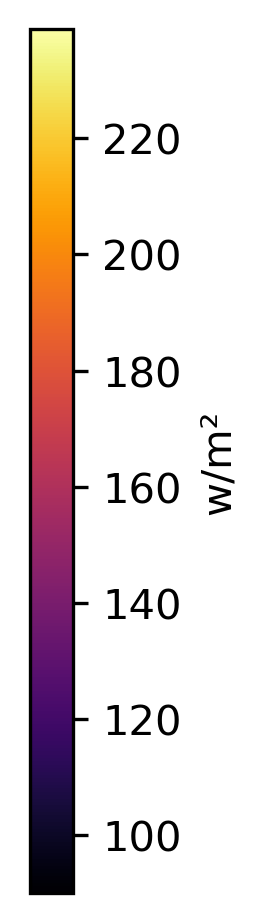
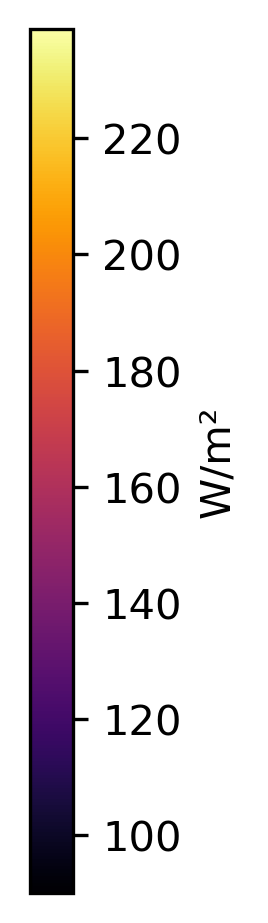
rerun colorbars with w->W

Changed region(s): [[0.7463, 0.4247, 0.8657, 0.5764]]

diff --git a/inspire-agrivolt-package/viz/map.py b/inspire-agrivolt-package/viz/map.py
@@ -5,8 +5,8 @@ Generate publication maps
 Silvana Requests
 (?) cumulative GHI would be a good sanity check with the NSRDB mapts itself.
 (X) Average yearly ground irradiance for setup 1 (edge to edge) 
-( ) Shading factor for month of July for setup 1
-( ) Ground irradiance edge to edge setup 1 for 3 pm July 21st. (I suspect this one is going to show the effect of the timezones we saw initially)
+(X) Shading factor for month of July for setup 1
+(X) Ground irradiance edge to edge setup 1 for 3 pm July 21st. (I suspect this one is going to show the effect of the timezones we saw initially)
 
 Kate Requests
 ( ) annual PV production/acre
